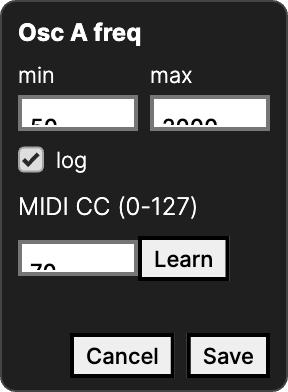
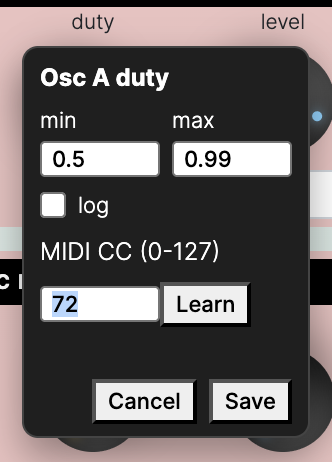
Add UI screenshots to AMYboard online docs (#810)
Add code editor, terminal REPL, patch browser, knob settings,
wavetable presets, and OLED/rotary/CV screenshots to online.md
with descriptive captions. Update knob_modal.png with new screenshot.

diff --git a/docs/amyboard/online.md b/docs/amyboard/online.md
@@ -2,8 +2,9 @@
 
 The AMYboard web editor at [amyboard.com](https://amyboard.com/editor) lets you design patches, write Python code, and manage your AMYboard -- all from your browser. You can also use it as a standalone browser-based synthesizer without any hardware at all.
 
-<img src="https://raw.githubusercontent.com/shorepine/tulipcc/main/www/img/amyboard_online.png" width=600>
+<img src="img/load_patches.png" width=400>
 
+*The patch browser lets you load from your own patches, Juno-6 and DX-7 presets, and community patches from AMYboard World.*
 
 ## Getting started
 
@@ -30,13 +31,18 @@ If you have a MIDI controller and a browser that supports WebMIDI, AMYboard Onli
 
 ### Write Python code
 
-<img src="https://raw.githubusercontent.com/shorepine/tulipcc/main/www/img/amyboard_online_code.png" width=600>
+<img src="img/code_editor.png" width=600>
 
+*The Code editor with syntax highlighting, file management, and live execution. Write and edit Python scripts that control AMY directly.*
 
 AMYboard Online includes a full MicroPython REPL running in your browser. You can:
 
  - Type Python code to control the synth
  - Write and test scripts before deploying them to hardware
+
+<img src="img/terminal_repl.png" width=600>
+
+*The Terminal REPL gives you an interactive MicroPython prompt where you can type AMY commands and see results immediately.*
 
 ### Transfer environments to hardware
 
@@ -50,7 +56,9 @@ This is the easiest way to set up your hardware AMYboard from a comfortable edit
 
 Make sure your MIDI out is set your AMYboard! Either directly over USB or via a MIDI cable, choose the correct MIDI output first.
 
-<img src="https://raw.githubusercontent.com/shorepine/tulipcc/main/www/img/send_to_amyboard.png" width=600>
+<img src="img/oled_rotary_cv.png" width=600>
+
+*The hardware interface: OLED display showing firmware info, rotary encoder for patch selection, and CV input knobs for modular integration.*
 
 ### AMYboard World
 
@@ -102,6 +110,10 @@ The patch knob panel contains six sections organized into two columns. The left 
 | **duty** | Pulse width for PULSE and SQUARE waveforms (0–1). Has no effect on other waveforms. |
 | **level** | Output level (amplitude) of oscillator A (0–1). |
 
+<img src="img/wavetable_presets.png" width=250>
+
+*When you select a wavetable waveform, the Wavetable Presets dropdown lets you choose from built-in wavetable files.*
+
 #### OSC B — Oscillator B
 
 | Knob | Description |
@@ -152,7 +164,9 @@ The patch knob panel contains six sections organized into two columns. The left 
 
 ### Knob editor (MIDI CC and range)
 
-<img src="img/knob_modal.png" width=200>
+<img src="img/knob_modal.png" width=250>
+
+*The knob settings popup showing min/max range, log scaling toggle, and MIDI CC assignment with Learn mode.*
 
 Click any knob **label** (the text above or below the knob, e.g. "freq") to open its parameter editor popup.
 
